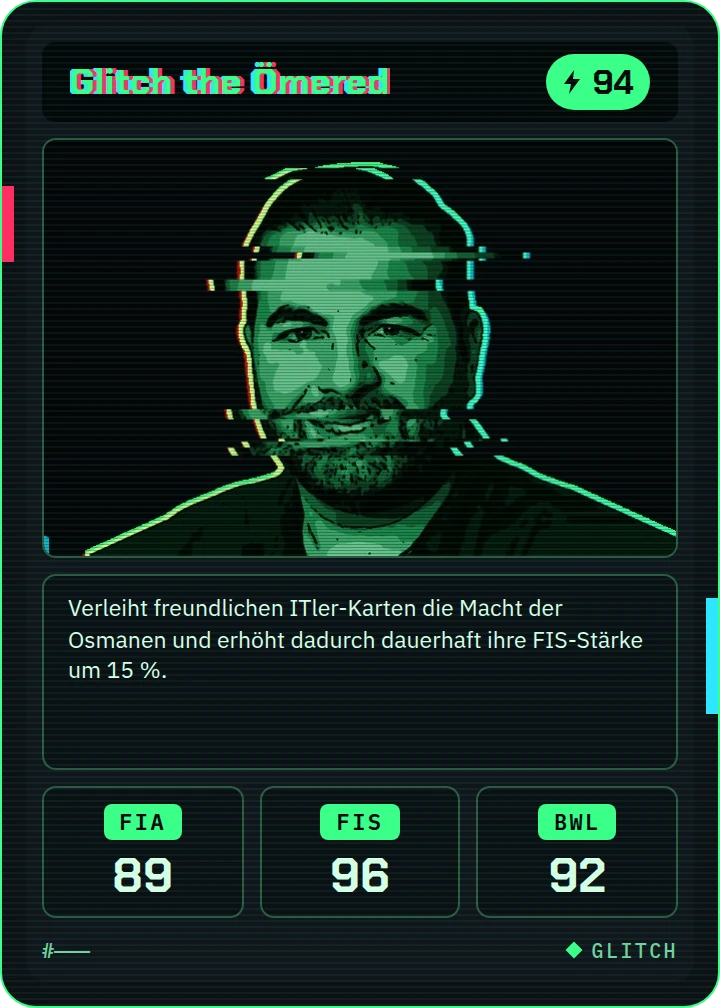
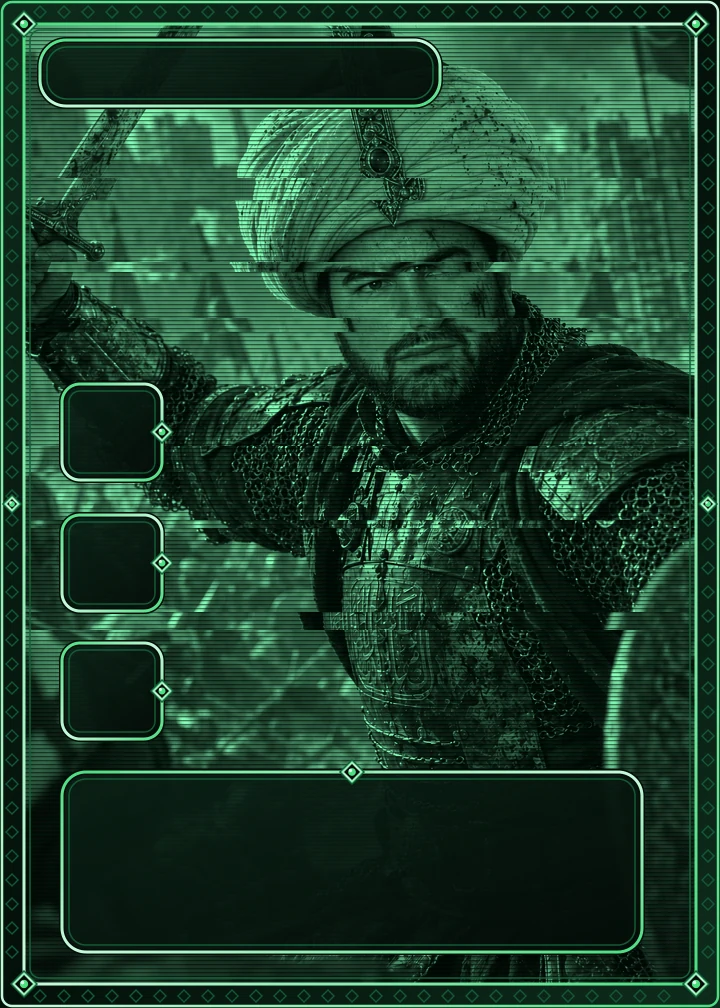
Karten-Overhaul Teil 1: Ömer im Vollbild-Layout von St. Ivan
Neues Motiv für alle sechs Ömer-Varianten im Layout von „St. Ivan, the Forsaken“ (Motiv über die
ganze Karte, Namensbalken, Speed-Plakette, drei Wertefenster links, Textfeld unten) – je Seltenheit
eigene Farben und Effekte: Crumpled (Sepia, Risse, Kaffeering), BFWler (Blaugrau), Gold, Holo
(Regenbogen-Schimmer, Funkel), Bockhaber (Violett), Glitch (Neongrün, verschobene Bildstreifen,
Scanlines, Farbbalken). Bilder als WebP in 720 × 1008.

Gleiche Karten-IDs, Werte und Fähigkeit wie bisher – wer Ömer besitzt, hat jetzt die neue Karte.
Neu: Rahmen „rar-<seltenheit>“ (frames.js), Feld title für den Namensbalken (der Name bleibt
„Ömer“) und scripts/card-frame.js, das Motiv und Rahmen für weitere Karten des Overhauls baut.

diff --git a/scripts/card-frame.js b/scripts/card-frame.js
@@ -1,0 +1,141 @@
+// Karten-Overhaul: Vollbild-Karte im Layout von St. Ivan, the Forsaken (Motiv über die ganze Karte, Namensbalken oben
+// links, Speed-Plakette oben rechts, drei Wertefenster links, Textfenster unten) – Farben und Effekte je Seltenheit:
+//   crumpled  Sepia, Risse und Kaffeering        bfwler    kühles Blaugrau
+//   gold      Gold mit Glanz                     holo      Regenbogen-Schimmer
+//   bockhaber Violett                            glitch    Neongrün, verschobene Bildstreifen, Scanlines, Farbbalken
+// Name, Werte und Fähigkeitstext setzt der Code (src/tcg/frames.js „rar-<seltenheit>“, src/tcg/cardSvg.js) – hier
+// entstehen nur Motiv und Rahmen (720 × 1008, WebP).
+//
+// node scripts/card-frame.js <bild> <seltenheit> <ziel.webp> [vorschau.png]
+const sharp = require('sharp');
+const [SRC, RARITY, DEST, PREVIEW] = process.argv.slice(2);
+const W = 720;
+const H = 1008;
+
+// Farben je Seltenheit: accent = Rahmenlinien, light/dark = Verlauf und Schatten, pane = Fenster, band = Außenband,
+// gem = Edelsteine, tint = Färbung des Motivs (null = Farben behalten), hue = holografischer Verlauf
+const STYLE = {
+  crumpled: { duo: ['#33281b', '#f2e6cc'], accent: '#d8c3a0', light: '#f4e8cf', dark: '#6e5a3e', pane: ['#3a3024', '#1f1912'], band: ['#5a4a35', '#2b2219'], gem: '#c8ae84', tint: '#d9c19a', brightness: 1.02, saturation: 0.9 },
+  bfwler: { duo: ['#161e2d', '#dfe9f8'], accent: '#9fb3d6', light: '#e1eaf8', dark: '#3e4d68', pane: ['#212a3a', '#11161f'], band: ['#33405a', '#151b27'], gem: '#a9bde0', tint: '#a7b9db', brightness: 1.0, saturation: 1 },
+  gold: { duo: ['#2a1500', '#ffd65c'], accent: '#e3b341', light: '#ffe9a8', dark: '#8c5f16', pane: ['#3a2a0c', '#1c1406'], band: ['#5e4314', '#271b07'], gem: '#ffd36b', tint: '#e9c25e', brightness: 1.04, saturation: 1.1 },
+  holo: { accent: '#bfe3ff', light: '#ffffff', dark: '#5a6fa0', pane: ['#1f2644', '#12142a'], band: ['#2d3560', '#141836'], gem: '#bfe3ff', tint: null, brightness: 1.12, saturation: 0.85, hue: ['#a8d8ff', '#ffb3e6', '#fff3a3', '#b3ffd9', '#a8d8ff'] },
+  bockhaber: { duo: ['#170b2b', '#e6d8ff'], accent: '#b48cf2', light: '#e8dcff', dark: '#4a3078', pane: ['#2a1a45', '#140b24'], band: ['#3d2566', '#180d2c'], gem: '#cbb0ff', tint: '#b893f0', brightness: 0.98, saturation: 1 },
+  glitch: { duo: ['#010e07', '#86ffb8'], accent: '#4ade80', light: '#c8fbdc', dark: '#14633a', pane: ['#0b2116', '#050d09'], band: ['#0e2c1c', '#04100a'], gem: '#4ade80', tint: '#54e08b', brightness: 0.9, saturation: 1.2 },
+};
+const S = STYLE[RARITY];
+if (!S) throw new Error(`Unbekannte Seltenheit: ${RARITY} (${Object.keys(STYLE).join(', ')})`);
+
+// ---------- Motiv je Seltenheit ----------
+async function art() {
+  const base = sharp(SRC).resize(W, H, { fit: 'cover', position: 'centre' });
+  let buf;
+  if (S.duo) {
+    // Duoton wie auf den bisherigen Karten: Helligkeit des Motivs → Verlauf von Schatten- zu Lichtfarbe
+    const { data } = await base.clone().greyscale().linear(1.1, -8).raw().toBuffer({ resolveWithObject: true });
+    const hex = (h) => [1, 3, 5].map((i) => parseInt(h.slice(i, i + 2), 16));
+    const [a, b] = S.duo.map(hex);
+    const rgb = Buffer.alloc(W * H * 3);
+    for (let i = 0; i < W * H; i++) {
+      const t = Math.pow(data[i] / 255, 1 / S.brightness);
+      for (let c = 0; c < 3; c++) rgb[i * 3 + c] = Math.round(a[c] + (b[c] - a[c]) * t);
+    }
+    buf = await sharp(rgb, { raw: { width: W, height: H, channels: 3 } }).png().toBuffer();
+  } else {
+    buf = await base.clone().modulate({ brightness: S.brightness, saturation: S.saturation }).png().toBuffer();
+  }
+  if (RARITY === 'glitch') {
+    // verschobene Bildstreifen (Glitch): einige waagerechte Bänder seitlich versetzt
+    const bands = [[178, 22, 18], [262, 10, -26], [318, 14, 14], [446, 26, -12], [520, 8, 30], [612, 18, -20]];
+    const layers = await Promise.all(bands.map(async ([y, h, dx]) => ({ input: await sharp(buf).extract({ left: Math.max(0, -dx), top: y, width: W - Math.abs(dx), height: h }).toBuffer(), left: Math.max(0, dx), top: y })));
+    buf = await sharp(buf).composite(layers).png().toBuffer();
+  }
+  return buf;
+}
+
+// ---------- Rahmen und Effekte (SVG) ----------
+const accentStops = S.hue
+  ? S.hue.map((c, i) => `<stop offset="${(i / (S.hue.length - 1)).toFixed(2)}" stop-color="${c}"/>`).join('')
+  : `<stop offset="0" stop-color="${S.accent}"/><stop offset=".5" stop-color="${S.light}"/><stop offset="1" stop-color="${S.accent}"/>`;
+const gem = (x, y, r = 11) =>
+  `<g transform="translate(${x} ${y})"><path d="M0 ${-r} L${r} 0 L0 ${r} L${-r} 0 Z" fill="url(#acc)" stroke="${S.dark}" stroke-width="1.5"/>` +
+  `<path d="M0 ${-r + 4} L${r - 4} 0 L0 ${r - 4} L${-r + 4} 0 Z" fill="${S.pane[1]}"/><circle r="${r * 0.32}" fill="${S.gem}"/><circle r="${r * 0.14}" cx="-1.5" cy="-1.5" fill="#fff" opacity=".85"/></g>`;
+const pane = (x, y, w, h, r) =>
+  `<rect x="${x}" y="${y}" width="${w}" height="${h}" rx="${r}" fill="url(#pane)" stroke="${S.pane[1]}" stroke-width="6"/>` +
+  `<rect x="${x}" y="${y}" width="${w}" height="${h}" rx="${r}" fill="none" stroke="url(#acc)" stroke-width="3"/>` +
+  `<rect x="${x + 7}" y="${y + 7}" width="${w - 14}" height="${h - 14}" rx="${Math.max(4, r - 7)}" fill="none" stroke="${S.dark}" stroke-width="1.5" opacity=".9"/>`;
+const border = () => {
+  let d = '';
+  for (let x = 40; x <= W - 40; x += 24) d += `<path d="M${x} 6 l6 6 l-6 6 l-6 -6 Z M${x} ${H - 18} l6 6 l-6 6 l-6 -6 Z"/>`;
+  for (let y = 40; y <= H - 40; y += 24) d += `<path d="M12 ${y - 6} l6 6 l-6 6 l-6 -6 Z M${W - 12} ${y - 6} l6 6 l-6 6 l-6 -6 Z"/>`;
+  return `<g fill="none" stroke="${S.dark}" stroke-width="1.4" opacity=".85">${d}</g>`;
+};
+// Halbton-Raster über dem Motiv (wie auf den bisherigen Karten), nicht bei Glitch
+const halftone = RARITY === 'glitch' ? '' : '<rect x="24" y="24" width="672" height="960" fill="url(#dots)" opacity=".16"/>';
+
+const EFFECTS = {
+  // Risse über die ganze Karte und ein Kaffeering um das dritte Wertefenster
+  crumpled: () =>
+    '<g fill="none" stroke="#fff8e8" stroke-width="1.6" opacity=".55" stroke-linecap="round">' +
+    '<path d="M0 220 L120 260 L210 248 L330 300 L470 286 L720 340"/><path d="M180 0 L210 120 L250 160 L238 300"/><path d="M720 610 L560 640 L470 700 L330 690 L190 760 L0 740"/>' +
+    '<path d="M520 1008 L540 880 L500 800 L520 700"/><path d="M0 520 L90 500 L150 560"/></g>' +
+    '<g fill="none" stroke="#3a2a14" stroke-width="1" opacity=".25"><path d="M0 222 L120 262 L210 250 L330 302 L470 288 L720 342"/><path d="M720 612 L560 642 L470 702 L330 692 L190 762 L0 742"/></g>' +
+    '<circle cx="113" cy="694" r="58" fill="none" stroke="#7a5a32" stroke-width="5" opacity=".35"/><circle cx="116" cy="690" r="52" fill="none" stroke="#7a5a32" stroke-width="2" opacity=".3"/>',
+  bfwler: () => '<rect x="24" y="24" width="672" height="960" fill="url(#cool)" opacity=".18"/>',
+  // Glanz quer über die Karte
+  gold: () => '<rect x="24" y="24" width="672" height="960" fill="url(#shine)" opacity=".45" style="mix-blend-mode:screen"/>',
+  // holografischer Schimmer und kleine Funkel
+  holo: () =>
+    '<rect x="24" y="24" width="672" height="960" fill="url(#rainbow)" opacity=".5"/>' +
+    '<rect x="24" y="24" width="672" height="960" fill="url(#shine)" opacity=".35"/>' +
+    [[150, 180], [600, 260], [520, 520], [210, 610], [640, 720], [330, 140]].map(([x, y]) => `<path d="M${x} ${y - 9} L${x + 2.5} ${y - 2.5} L${x + 9} ${y} L${x + 2.5} ${y + 2.5} L${x} ${y + 9} L${x - 2.5} ${y + 2.5} L${x - 9} ${y} L${x - 2.5} ${y - 2.5} Z" fill="#fff" opacity=".85"/>`).join(''),
+  bockhaber: () => '<rect x="24" y="24" width="672" height="960" fill="url(#violetGlow)" opacity=".35"/>',
+  // Scanlines, Farbbalken an den Seiten (wie die bisherigen Glitch-Karten)
+  glitch: () =>
+    '<rect x="24" y="24" width="672" height="960" fill="url(#scan)" opacity=".5"/>' +
+    '<rect x="0" y="150" width="9" height="58" fill="#ff3b5c"/><rect x="0" y="560" width="7" height="24" fill="#ff3b5c" opacity=".8"/>' +
+    '<rect x="711" y="300" width="9" height="74" fill="#22d3ee"/><rect x="713" y="820" width="7" height="30" fill="#22d3ee" opacity=".8"/>',
+};
+
+const stats = [432, 563, 691].map((cy) => pane(62, cy - 48, 100, 96, 18) + gem(162, cy)).join('');
+const svg = `<svg xmlns="http://www.w3.org/2000/svg" width="${W}" height="${H}" viewBox="0 0 ${W} ${H}">
+  <defs>
+    <linearGradient id="acc" x1="0" y1="0" x2="1" y2="1">${accentStops}</linearGradient>
+    <linearGradient id="pane" x1="0" y1="0" x2="1" y2="1"><stop offset="0" stop-color="${S.pane[0]}" stop-opacity=".93"/><stop offset="1" stop-color="${S.pane[1]}" stop-opacity=".96"/></linearGradient>
+    <linearGradient id="band" x1="0" y1="0" x2="1" y2="1"><stop offset="0" stop-color="${S.band[0]}"/><stop offset=".5" stop-color="${S.band[1]}"/><stop offset="1" stop-color="${S.band[0]}"/></linearGradient>
+    <radialGradient id="vignette" cx=".5" cy=".42" r=".78"><stop offset=".55" stop-color="#000" stop-opacity="0"/><stop offset="1" stop-color="${S.pane[1]}" stop-opacity=".72"/></radialGradient>
+    <linearGradient id="shine" x1="0" y1="0" x2="1" y2="1"><stop offset=".25" stop-color="#fff" stop-opacity="0"/><stop offset=".42" stop-color="#fff" stop-opacity=".55"/><stop offset=".5" stop-color="#fff" stop-opacity="0"/></linearGradient>
+    <linearGradient id="rainbow" x1="0" y1="0" x2="1" y2="1">${(S.hue || ['#fff', '#fff']).map((c, i, a) => `<stop offset="${(i / (a.length - 1)).toFixed(2)}" stop-color="${c}"/>`).join('')}</linearGradient>
+    <linearGradient id="cool" x1="0" y1="0" x2="0" y2="1"><stop offset="0" stop-color="#cfe0ff"/><stop offset="1" stop-color="#1b2433"/></linearGradient>
+    <radialGradient id="violetGlow" cx=".5" cy=".35" r=".7"><stop offset="0" stop-color="#e3d3ff" stop-opacity=".0"/><stop offset="1" stop-color="#5b2ea6"/></radialGradient>
+    <pattern id="dots" width="7" height="7" patternUnits="userSpaceOnUse"><circle cx="3.5" cy="3.5" r="1.1" fill="${S.dark}"/></pattern>
+    <pattern id="scan" width="4" height="4" patternUnits="userSpaceOnUse"><rect width="4" height="1.3" fill="#000"/></pattern>
+    <mask id="frameMask"><rect width="${W}" height="${H}" fill="#fff"/><rect x="24" y="24" width="${W - 48}" height="${H - 48}" rx="14" fill="#000"/></mask>
+  </defs>
+  ${halftone}
+  ${EFFECTS[RARITY]()}
+  <rect width="${W}" height="${H}" fill="url(#vignette)"/>
+  <rect width="${W}" height="${H}" fill="url(#band)" mask="url(#frameMask)"/>
+  ${border()}
+  <rect x="2" y="2" width="${W - 4}" height="${H - 4}" rx="10" fill="none" stroke="url(#acc)" stroke-width="2.5"/>
+  <rect x="24" y="24" width="${W - 48}" height="${H - 48}" rx="14" fill="none" stroke="url(#acc)" stroke-width="3"/>
+  <rect x="30" y="30" width="${W - 60}" height="${H - 60}" rx="10" fill="none" stroke="${S.dark}" stroke-width="1.5"/>
+  ${gem(24, 24, 13)}${gem(W - 24, 24, 13)}${gem(24, H - 24, 13)}${gem(W - 24, H - 24, 13)}${gem(12, H / 2, 9)}${gem(W - 12, H / 2, 9)}
+  <rect x="40" y="40" width="400" height="66" rx="26" fill="url(#pane)" stroke="${S.pane[1]}" stroke-width="6"/>
+  <rect x="40" y="40" width="400" height="66" rx="26" fill="none" stroke="url(#acc)" stroke-width="3"/>
+  <rect x="47" y="47" width="386" height="52" rx="20" fill="none" stroke="${S.dark}" stroke-width="1.5"/>
+  ${stats}
+  ${pane(62, 772, 580, 180, 24)}
+  ${gem(352, 772, 12)}
+  <path d="M120 772 H330 M374 772 H584" stroke="${S.light}" stroke-width="1" opacity=".5"/>
+  ${RARITY === 'crumpled' ? EFFECTS.crumpled().replace(/<circle[\s\S]*$/, '') : ''}
+</svg>`;
+
+(async () => {
+  const out = sharp(await art()).composite([{ input: Buffer.from(svg) }]);
+  await out.clone().webp({ quality: 88, effort: 6 }).toFile(DEST);
+  if (PREVIEW) await out.clone().png().toFile(PREVIEW);
+  console.log(`${RARITY}: ${DEST}`);
+})().catch((e) => {
+  console.error(e);
+  process.exit(1);
+});

diff --git a/src/tcg/cardData.js b/src/tcg/cardData.js
@@ -6,6 +6,7 @@
 //   season:  Schlüssel aus src/tcg/seasons.js
 //   frame:   Rahmen-Layout aus src/tcg/frames.js (wo die Fenster auf dem Bild liegen)
 //   name:    Name wie auf der Karte (sonst aus dem Dateinamen)
+//   title:   Text im Namensbalken, wenn er vom Namen abweicht (Varianten wie „Ömer the Golden“; der Name bleibt „Ömer“)
 //   stats:   [Speed, FIA, FIS, BWL]
 //   abilityName: Name der Fähigkeit (fett über dem Text, optional)
 //   ability: Fähigkeitstext im großen Fenster
@@ -86,8 +87,23 @@ const SEASON1_UNRELEASED = {
   ...unreleased('The Gracebringer', ['the-gracebringer-1-footman', 'the-gracebringer-2-gold', 'the-gracebringer-3-holo', 'the-gracebringer-4-arcane']),
 };
 
+// Karten-Overhaul Teil 1: Ömer im Vollbild-Layout von St. Ivan, the Forsaken – je Seltenheit eigene Farben und Effekte
+// (Rahmen „rar-<seltenheit>“ in frames.js, Bilder aus scripts/card-frame.js). Gleiche Karten-IDs wie bisher: wer Ömer
+// hatte, hat jetzt die überarbeitete Karte. Werte unverändert aus stats.js, Fähigkeit wie in src/ihk/abilities.js.
+const OMER_TEXT = 'Verleiht freundlichen ITler-Karten die Macht der Osmanen und erhöht dadurch dauerhaft ihre FIS-Stärke um 15 %.';
+const omer = (id, rarity, title) => ({ season: 'pre-season', frame: `rar-${rarity}`, name: 'Ömer', title, stats: require('./stats')[id], abilityName: 'Macht der Osmanen', ability: OMER_TEXT });
+const OVERHAUL = {
+  'omer-1-crumpled': omer('omer-1-crumpled', 'crumpled', 'Ömer the Crumpled'),
+  'omer-2-bfwler': omer('omer-2-bfwler', 'bfwler', 'Ömer the BFWler'),
+  'omer-3-gold': omer('omer-3-gold', 'gold', 'Ömer the Golden'),
+  'omer-4-holo': omer('omer-4-holo', 'holo', 'Ömer the Holographic'),
+  'omer-5-bockhaber': omer('omer-5-bockhaber', 'bockhaber', 'Ömer the Bockhaber'),
+  'omer-6-glitch': omer('omer-6-glitch', 'glitch', 'Glitch the Ömered'),
+};
+
 module.exports = {
   ...TEST_ITEMS,
+  ...OVERHAUL,
   ...TEST_HELDEN,
   ...SEASON1_UNRELEASED,
   'st-ivan-boss': {

diff --git a/src/tcg/catalog.js b/src/tcg/catalog.js
@@ -136,7 +136,8 @@ function loadCards(dir = IMAGE_DIR) {
       if (data && data.kampf) card.kampf = data.kampf;
       // unreleased = Karte liegt schon bereit, ist aber für niemanden erhältlich (fehlt in CARDS, siehe unten)
       if (data && data.unreleased) card.unreleased = true;
-      if (framed) Object.assign(card, { frame: data.frame, ability: data.ability || '', abilityName: data.abilityName || '', artFile: path.join(dir, file) });
+      // title: Text im Namensbalken (z. B. „Ömer the Golden“), der Kartenname bleibt überall sonst name („Ömer“)
+      if (framed) Object.assign(card, { frame: data.frame, title: data.title || '', ability: data.ability || '', abilityName: data.abilityName || '', artFile: path.join(dir, file) });
       // Bild-URL bei jedem Zugriff neu (Version = Änderungszeit): ein ausgetauschtes Bild erscheint ohne Neustart
       Object.defineProperty(card, 'image', { enumerable: true, get: () => (framed ? cardImage(card) : imageUrl(file)) });
       return card;
@@ -169,7 +170,7 @@ function cardImage(card, values = {}) {
   } catch {
     // Datei fehlt – ohne Bildversion
   }
-  const v = crypto.createHash('sha1').update(JSON.stringify([card.name, card.frame, card.stats, card.abilityName, card.ability, card.kampf || null, mtime])).digest('hex').slice(0, 10);
+  const v = crypto.createHash('sha1').update(JSON.stringify([card.name, card.title || '', card.frame, card.stats, card.abilityName, card.ability, card.kampf || null, mtime])).digest('hex').slice(0, 10);
   const q = ['speed', 'fia', 'fis', 'bwl'].filter((k) => Number.isInteger(values[k]) && card.stats && values[k] !== card.stats[k]).map((k) => `${k}=${Math.max(0, Math.min(999, values[k]))}`);
   return `${IMAGE_URL}/karte/${card.id}.svg?${[...q, `v=${v}`].join('&')}`;
 }

diff --git a/src/tcg/frames.js b/src/tcg/frames.js
@@ -96,3 +96,22 @@ module.exports.eis = heldFrame({
   text: { x: 92, y: 772, w: 536, h: 150, size: 26, minSize: 15, lineHeight: 1.32 },
   colors: { value: '#eaf6ff', label: '#9fc8ee', text: '#e6f1fb', outline: '#06122a', plate: '#0e2446', plateBorder: '#9fd0ff' },
 });
+
+// Karten-Overhaul: Vollbild-Layout wie St. Ivan, the Forsaken (Fenster wie gilded) in den Farben der Seltenheit – das
+// Rahmenbild baut scripts/card-frame.js. Name per Code (card.title, sonst card.name), Werte wie gilded (Speed, FIA, FIS, BWL).
+const RARITY_COLORS = {
+  crumpled: { value: '#f4e8cf', label: '#cbb48c', text: '#f1e6d0', outline: '#1f1912', plate: '#3a3024', plateBorder: '#d8c3a0' },
+  bfwler: { value: '#e1eaf8', label: '#9fb3d6', text: '#e6edf8', outline: '#0e131c', plate: '#212a3a', plateBorder: '#9fb3d6' },
+  gold: { value: '#ffe9a8', label: '#e3b341', text: '#fbefd0', outline: '#1c1406', plate: '#3a2a0c', plateBorder: '#e3b341' },
+  holo: { value: '#f4f9ff', label: '#bfe3ff', text: '#eef5ff', outline: '#10132a', plate: '#1f2644', plateBorder: '#bfe3ff' },
+  bockhaber: { value: '#efe6ff', label: '#c9a8ff', text: '#efe8ff', outline: '#120a20', plate: '#2a1a45', plateBorder: '#b48cf2' },
+  glitch: { value: '#dcffe9', label: '#4ade80', text: '#dcffe9', outline: '#03100a', plate: '#0b2116', plateBorder: '#4ade80' },
+};
+for (const [key, c] of Object.entries(RARITY_COLORS)) {
+  module.exports[`rar-${key}`] = {
+    ...module.exports.gilded,
+    name: { x: 240, y: 73, w: 360, size: 34, minSize: 20 },
+    text: { x: 92, y: 790, w: 520, h: 144, size: 25, minSize: 15, lineHeight: 1.32 },
+    colors: { ...module.exports.gilded.colors, ...c },
+  };
+}

diff --git a/test/tcg.test.js b/test/tcg.test.js
@@ -212,3 +212,22 @@ test('#204: Bank – ungebügelter Knick halber Preis, beschädigte Exemplare ge
   const holo = require('../src/tcg/catalog').rarityByKey.holo;
   assert.equal(bankProceeds([{ rarity: 'holo', creased: true }, { rarity: 'holo' }]), Math.floor(holo.sell / 2) + holo.sell);
 });
+
+test('Karten-Overhaul Teil 1: Ömer im Vollbild-Layout je Seltenheit – gleiche Karten-IDs, Werte und Fähigkeit', () => {
+  const catalog = require('../src/tcg/catalog');
+  const cardSvg = require('../src/tcg/cardSvg');
+  const STATS = require('../src/tcg/stats');
+  const variants = { 'omer-1-crumpled': 'Ömer the Crumpled', 'omer-2-bfwler': 'Ömer the BFWler', 'omer-3-gold': 'Ömer the Golden', 'omer-4-holo': 'Ömer the Holographic', 'omer-5-bockhaber': 'Ömer the Bockhaber', 'omer-6-glitch': 'Glitch the Ömered' };
+  for (const [id, title] of Object.entries(variants)) {
+    const c = catalog.cardById[id];
+    assert.ok(c && catalog.CARDS.includes(c), id);
+    assert.equal(c.name, 'Ömer', 'der Name bleibt überall „Ömer“');
+    assert.equal(c.title, title);
+    assert.equal(c.frame, `rar-${c.rarity}`);
+    assert.deepEqual([c.stats.speed, c.stats.fia, c.stats.fis, c.stats.bwl], STATS[id], 'Werte unverändert');
+    assert.ok(c.isCharacter);
+    assert.match(c.image, /\/img\/tcg\/karte\/omer-/);
+    const svg = cardSvg.render(c).replace(/<image[^>]*\/>/, '');
+    for (const t of [title, 'Macht der Osmanen', 'FIA', 'FIS', 'BWL', `>${c.stats.fis}<`]) assert.ok(svg.includes(t), `${id}: ${t}`);
+  }
+});

diff --git a/src/tcg/cardSvg.js b/src/tcg/cardSvg.js
@@ -139,7 +139,7 @@ function render(card, values = {}) {
     `<svg xmlns="http://www.w3.org/2000/svg" xmlns:xlink="http://www.w3.org/1999/xlink" viewBox="0 0 ${w} ${h}" width="${w}" height="${h}">` +
     `<title>${esc(card.name)}</title>` +
     `<image width="${w}" height="${h}" xlink:href="${artData(card.artFile)}"/>` +
-    (frame.name ? nameSvg(frame, card.name) : '') +
+    (frame.name ? nameSvg(frame, card.title || card.name) : '') +
     (frame.speed ? speedSvg(frame, v.speed, base.speed) : '') +
     statsSvg(frame, v, base) +
     abilitySvg(frame, card.ability, card.abilityName) +
